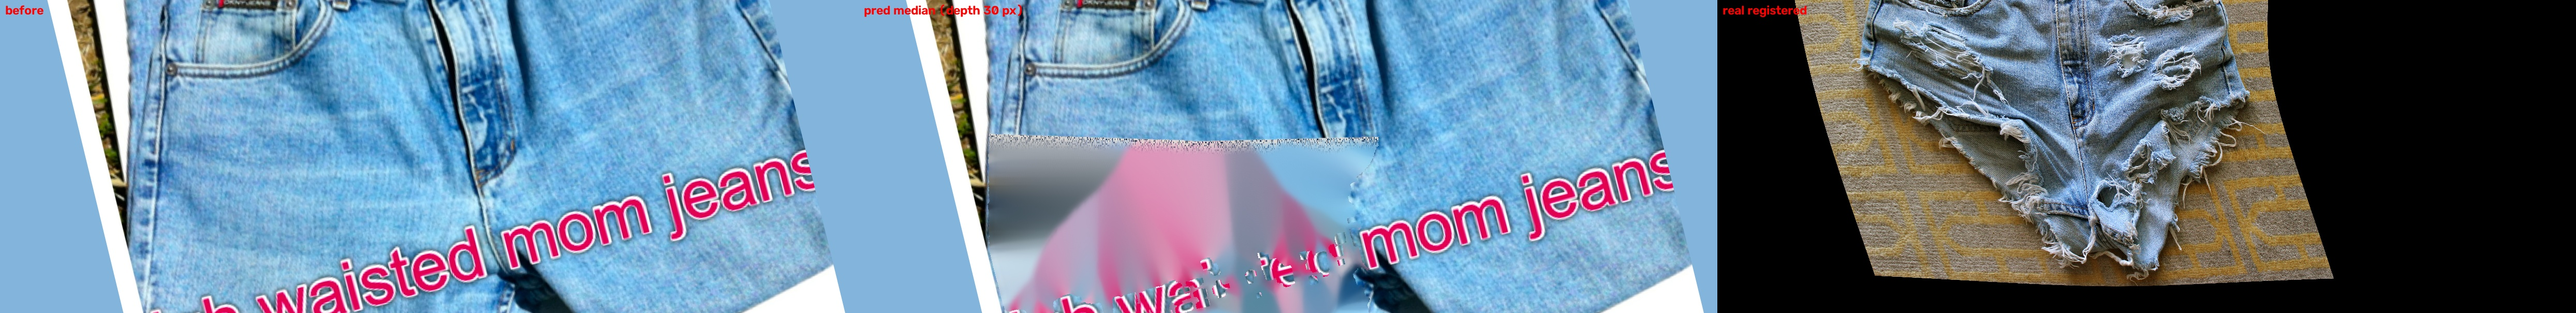
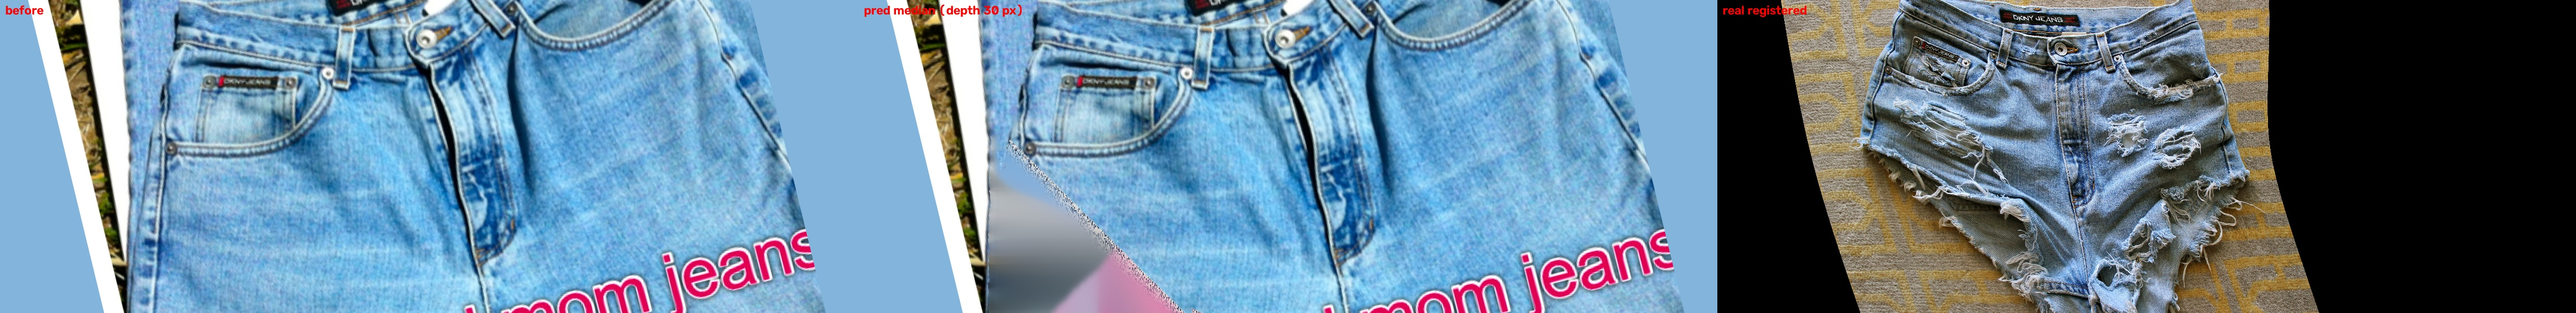
EXP_0012 phone-resolution readiness; experiment_gate5.py (one-command Gate 5 evidence)

diff --git a/tools/experiment_gate5.py b/tools/experiment_gate5.py
@@ -1,0 +1,28 @@
+#!/usr/bin/env python3
+"""One-command Gate 5 evidence (plan §7 Phase 5): 'the procedural model predicts average fray depth better than a
+single global average' — evaluated leave-one-out on the after-wash pairs, plus calibration coverage and the bench.
+Run when >= 10 after-wash pairs exist; before that it prints INSUFFICIENT and the current numbers."""
+import json, os, subprocess, sys, glob, statistics as st
+from pathlib import Path
+ROOT = Path(__file__).resolve().parents[1]; env = dict(os.environ, PAIRS_OUT="experiments/pairs_prior", PAIRS_USE_PRIOR="1")
+subprocess.run([sys.executable, str(ROOT / "tools/run_pairs_batch.py")], env=env, capture_output=True, text=True)
+rows = []
+for n in glob.glob(str(ROOT / "experiments/pairs_prior/*/NOTE.md")):
+    t = Path(n).read_text()
+    if "rejected" in t[:80] or "after_wash" not in t: continue
+    import re; m = re.search(r"fringe depth used: ([\d.]+) px from prior\[after_wash\].*?measured on after-photo: ([\d.]+) px", t)
+    if m: rows.append((Path(n).parent.name, float(m.group(1)), float(m.group(2))))
+n = len(rows); print(f"after-wash pairs with LOO prediction: {n}")
+if n:
+    pred_err = st.mean(abs(p - r) for _, p, r in rows); gmean = st.mean(r for _, _, r in rows)
+    glob_err = st.mean(abs(gmean - r) for _, _, r in rows)          # 'single global average' baseline (in-sample, generous to the baseline)
+    print(f"mean |error|: prior (LOO) {pred_err:.1f} px vs global-average {glob_err:.1f} px")
+    for pid, p, r in rows: print(f"  {pid}: predicted {p:.1f}, measured {r:.1f}")
+ints = ROOT / "experiments/pairs_prior/intervals_all.jsonl"
+with open(ints, "w") as f:
+    for p in glob.glob(str(ROOT / "experiments/pairs_prior/*/intervals.jsonl")): f.write(open(p).read())
+subprocess.run([sys.executable, str(ROOT / "tools/calibration_audit.py"), str(ints)])
+b = subprocess.run([sys.executable, str(ROOT / "tools/bench.py")], capture_output=True, text=True); print("bench:", "OK" if b.returncode == 0 else "REGRESSIONS")
+verdict = "INSUFFICIENT (need >= 10 after-wash pairs)" if n < 10 else ("PASS" if pred_err < glob_err else "FAIL")
+print(f"GATE 5 verdict: {verdict}")
+(ROOT / "docs/GATE5_LAST.md").write_text(f"# Gate 5 last run\n\nafter-wash pairs: {n}\nverdict: {verdict}\n")

diff --git a/experiments/pairs_prior/SUMMARY.md b/experiments/pairs_prior/SUMMARY.md
@@ -2,7 +2,7 @@
 
 | page | title | after | status | sil IoU pred / crop / no-op | chamfer px pred / crop | edge ΔE pred / crop | fringe IoU pred / no-op |
 |---|---|---|---|---|---|---|---|
-| b630a78c19 | How To Make Jeans Into Shorts The Easy W | after_cut | ok | 0.46 / 0.46 / 0.54 | 261 / 261 | 17.4 / 17.4 | 0.00 / 0.58 |
+| b630a78c19 | How To Make Jeans Into Shorts The Easy W | after_cut | ok | 0.49 / 0.49 / 0.54 | 319 / 320 | 18.8 / 19.1 | 0.00 / 0.55 |
 | 660bef67bf | Cómo hacer shorts con jeans viejos | after_cut | FAIL: REJECT: degenerate cut: removed fraction 0.00 | | | | |
 | 85d48013a2 | Tutorial: Aus Lang mach Kurz – Jeanshose | after_cut | FAIL: REJECT: after: garment touches the frame edge (cropped photo | | | | |
 | 3560e543f6 | How to Cut Jeans into Shorts – DIY Denim | after_cut | FAIL: REJECT: after: garment touches the frame bottom (cropped pho | | | | |
@@ -12,13 +12,13 @@
 | 963fcdd264 | DIY; Mom Jeans to High Waisted Shorts |  | after_cut | FAIL: REJECT: before: widest top row is not a single waistband run | | | | |
 | d52a3ff876 | Under Peach Trees: D.I.Y. Jeans to Short | after_cut | FAIL: REJECT: before: widest top row is not a single waistband run | | | | |
 | 443d1d4658 | Create Kids Couture: Upcycle Old Jeans i | after_cut | ok | 0.92 / 0.92 / 0.59 | 9 / 9 | 18.2 / 18.3 | 0.01 / 0.00 |
-| 3082dfddc1 | DIY style: perfectly distressed jean sho | after_wash | FAIL: REJECT: degenerate cut: removed fraction 0.88 | | | | |
+| 3082dfddc1 | DIY style: perfectly distressed jean sho | after_wash | FAIL: REJECT: degenerate cut: removed fraction 0.87 | | | | |
 | 22a5857a0c | Comment transformer son jeans en short - | after_cut | FAIL: REJECT: after: garment touches the frame edge (cropped photo | | | | |
-| f9c0e56308 | 7 Easy Steps to: DIY Denim Shorts - 51li | after_wash | FAIL: REJECT: degenerate cut: removed fraction 0.76 | | | | |
-| 2691c1a8d0 | Jeans Upcycling: Shorts aus alter Jeans  | after_cut | ok | 0.69 / 0.69 / 0.58 | 25 / 25 | 14.9 / 15.1 | 0.01 / 0.10 |
+| f9c0e56308 | 7 Easy Steps to: DIY Denim Shorts - 51li | after_wash | ok | 0.91 / 0.92 / 0.44 | 44 / 35 | 20.7 / 17.7 | 0.11 / 0.00 |
+| 2691c1a8d0 | Jeans Upcycling: Shorts aus alter Jeans  | after_cut | ok | 0.61 / 0.61 / 0.58 | 48 / 48 | 16.8 / 17.8 | 0.01 / 0.28 |
 | 5cd6cff343 | Transformer un jean en short façon BD -  | after_cut | FAIL: REJECT: before: widest top row is not a single waistband run | | | | |
-| 26b1041d00 | Upcycle Jeans Into Shorts - Sewing Novic | after_cut | ok | 0.69 / 0.69 / 0.73 | 46 / 46 | 34.7 / 34.8 | 0.00 / 0.48 |
-| f542c57cec | DIY High Waisted Denim Shorts, Step-by-S | after_wash | ok | 0.69 / 0.68 / 0.51 | 123 / 128 | 28.2 / 26.8 | 0.06 / 0.22 |
+| 26b1041d00 | Upcycle Jeans Into Shorts - Sewing Novic | after_cut | ok | 0.89 / 0.89 / 0.73 | 3 / 3 | 24.3 / 24.3 | 0.03 / 0.02 |
+| f542c57cec | DIY High Waisted Denim Shorts, Step-by-S | after_wash | ok | 0.86 / 0.86 / 0.51 | 51 / 50 | 29.0 / 28.4 | 0.32 / 0.02 |
 | 2e2063b93f | DIY: Cutoff Shorts - The Fitnessista | after_cut | FAIL: REJECT: after: widest top row is not a single waistband run  | | | | |
 | 964dc8a1f9 | Prudence and Austere: DIY Distressed Den | after_wash | FAIL: REJECT: before: widest top row is not a single waistband run | | | | |
 | e97924ad2d | Doodlecraft: How to Upcycle Jeans into B | after_cut | ok | 0.90 / 0.90 / 0.54 | 1 / 1 | 11.2 / 11.0 | 0.23 / 0.01 |

diff --git a/experiments/pairs_prior/26b1041d00/NOTE.md b/experiments/pairs_prior/26b1041d00/NOTE.md
@@ -1,18 +1,18 @@
 # PAIR — auto pipeline
 
-flags: before garment is short (bermuda/shorts): a short->shorter cut, not jeans->shorts
+flags: SAM fringe mask rejected: median depth 45px > 15% of garment height 274px; before garment is short (bermuda/shorts): a short->shorter cut, not jeans->shorts
 before: /Users/jefferyhuang/denim-twin/data/external/pair_images/26b1041d00_before_62dc9a85.jpg 
 after: /Users/jefferyhuang/denim-twin/data/external/pair_images/26b1041d00_after_cut_38ff38d5.jpg 
 scale: UNKNOWN (1.0 placeholder; mm values are px)
 landmarks: auto / auto (crotch: gap / gap)
-fringe depth used: 0.5 px from prior[after_cut] (n=4 after excluding self, INSUFFICIENT); measured on after-photo: 45.0 px (fabric/fringe split: SAM; after-frame)
-hem fit: left: angle -5.4°, depth 64 px, right: angle -0.7°, depth 26 px
+fringe depth used: 0.5 px from prior[after_cut] (n=4 after excluding self, INSUFFICIENT); measured on after-photo: 0.0 px (fabric/fringe split: colour split; registered-frame)
+hem fit: left: angle 9.1°, depth 0 px, right: angle -9.5°, depth 0 px
 registration residual (leave-one-landmark-out): 14.59px
 
 | system | sil IoU | chamfer | edge ΔE | fringe IoU |
 |---|---|---|---|---|
-| pred conservative | 0.688 | 46.2 | 34.7 | 0.001 |
-| pred median | 0.688 | 46.1 | 34.7 | 0.001 |
-| pred aggressive | 0.688 | 46.0 | 34.7 | 0.003 |
-| null:no-op | 0.732 | 48.1 | 25.4 | 0.480 |
-| null:crop-only | 0.688 | 46.2 | 34.8 | 0.000 |
+| pred conservative | 0.888 | 2.8 | 24.3 | 0.025 |
+| pred median | 0.888 | 2.8 | 24.3 | 0.033 |
+| pred aggressive | 0.888 | 2.8 | 24.3 | 0.102 |
+| null:no-op | 0.732 | 51.5 | 33.0 | 0.016 |
+| null:crop-only | 0.888 | 2.8 | 24.3 | 0.000 |

diff --git a/experiments/pairs_prior/f542c57cec/NOTE.md b/experiments/pairs_prior/f542c57cec/NOTE.md
@@ -1,18 +1,18 @@
 # PAIR — auto pipeline
 
-flags: before: rotated -13.7° to upright
+flags: before: rotated -13.7° to upright; SAM fringe mask rejected: median depth 793px > 15% of garment height 3231px
 before: /Users/jefferyhuang/denim-twin/experiments/pairs_prior/f542c57cec/cropped_before.png 
 after: /Users/jefferyhuang/denim-twin/data/external/pair_images/f542c57cec_after_wash_9c55600a.jpg 
 scale: UNKNOWN (1.0 placeholder; mm values are px)
 landmarks: auto / auto (crotch: gap / gap)
-fringe depth used: 30.2 px from prior[after_wash] (n=3 after excluding self, INSUFFICIENT); measured on after-photo: 163.6 px (fabric/fringe split: SAM; after-frame)
-hem fit: left: angle 1.9°, depth 4 px, right: angle -1.4°, depth 220 px
+fringe depth used: 30.2 px from prior[after_wash] (n=3 after excluding self, INSUFFICIENT); measured on after-photo: 7.5 px (fabric/fringe split: colour split; registered-frame)
+hem fit: left: angle 44.8°, depth 2 px, right: angle 24.0°, depth 13 px
 registration residual (leave-one-landmark-out): 61.19px
 
 | system | sil IoU | chamfer | edge ΔE | fringe IoU |
 |---|---|---|---|---|
-| pred conservative | 0.680 | 125.8 | 28.1 | 0.023 |
-| pred median | 0.686 | 123.3 | 28.2 | 0.057 |
-| pred aggressive | 0.690 | 121.3 | 28.4 | 0.082 |
-| null:no-op | 0.514 | 460.8 | 27.8 | 0.224 |
-| null:crop-only | 0.676 | 127.9 | 26.8 | 0.000 |
+| pred conservative | 0.859 | 49.5 | 28.8 | 0.222 |
+| pred median | 0.857 | 51.5 | 29.0 | 0.316 |
+| pred aggressive | 0.854 | 55.0 | 29.1 | 0.312 |
+| null:no-op | 0.514 | 460.8 | 29.8 | 0.022 |
+| null:crop-only | 0.858 | 50.2 | 28.4 | 0.000 |

diff --git a/experiments/pairs_prior/b630a78c19/NOTE.md b/experiments/pairs_prior/b630a78c19/NOTE.md
@@ -1,18 +1,18 @@
 # PAIR — auto pipeline
 
-flags: after: rotated -10.7° to upright
+flags: after: rotated -10.7° to upright; SAM fringe mask rejected: median depth 254px > 15% of garment height 1190px
 before: /Users/jefferyhuang/denim-twin/data/external/pair_images/b630a78c19_before_54931395.jpg 
 after: /Users/jefferyhuang/denim-twin/data/external/pair_images/b630a78c19_after_cut_c7a4d702.jpg 
 scale: UNKNOWN (1.0 placeholder; mm values are px)
 landmarks: auto / auto (crotch: gap / gap)
-fringe depth used: 0.6 px from prior[after_cut] (n=5 after excluding self); measured on after-photo: 307.2 px (fabric/fringe split: SAM; after-frame)
-hem fit: left: angle -0.7°, depth 6 px, right: angle -20.2°, depth 56 px
+fringe depth used: 0.6 px from prior[after_cut] (n=5 after excluding self); measured on after-photo: 4.5 px (fabric/fringe split: colour split; registered-frame)
+hem fit: left: angle 72.1°, depth 4 px, right: angle 0.1°, depth 5 px
 registration residual (leave-one-landmark-out): 41.30px
 
 | system | sil IoU | chamfer | edge ΔE | fringe IoU |
 |---|---|---|---|---|
-| pred conservative | 0.459 | 260.9 | 17.4 | 0.001 |
-| pred median | 0.459 | 260.8 | 17.4 | 0.001 |
-| pred aggressive | 0.459 | 260.7 | 17.4 | 0.002 |
-| null:no-op | 0.536 | 161.9 | 16.4 | 0.582 |
-| null:crop-only | 0.459 | 260.9 | 17.4 | 0.000 |
+| pred conservative | 0.489 | 319.0 | 18.8 | 0.003 |
+| pred median | 0.490 | 318.6 | 18.8 | 0.004 |
+| pred aggressive | 0.490 | 316.9 | 18.8 | 0.008 |
+| null:no-op | 0.536 | 257.3 | 14.3 | 0.549 |
+| null:crop-only | 0.489 | 320.5 | 19.1 | 0.000 |

diff --git a/experiments/pairs_prior/2691c1a8d0/NOTE.md b/experiments/pairs_prior/2691c1a8d0/NOTE.md
@@ -1,18 +1,18 @@
 # PAIR — auto pipeline
 
-flags: none
+flags: SAM fringe mask rejected: median depth 116px > 15% of garment height 386px
 before: /Users/jefferyhuang/denim-twin/data/external/pair_images/2691c1a8d0_before_b9f7f64b.jpg 
 after: /Users/jefferyhuang/denim-twin/data/external/pair_images/2691c1a8d0_after_cut_b2330819.jpg 
 scale: UNKNOWN (1.0 placeholder; mm values are px)
 landmarks: auto / auto (crotch: gap / gap)
-fringe depth used: 0.4 px from prior[after_cut] (n=5 after excluding self); measured on after-photo: 120.2 px (fabric/fringe split: SAM; after-frame)
-hem fit: left: angle -36.4°, depth 2 px, right: angle -48.2°, depth 62 px
+fringe depth used: 0.4 px from prior[after_cut] (n=5 after excluding self); measured on after-photo: 2.8 px (fabric/fringe split: colour split; registered-frame)
+hem fit: left: angle -68.9°, depth 4 px, right: angle -48.9°, depth 2 px
 registration residual (leave-one-landmark-out): 86.85px
 
 | system | sil IoU | chamfer | edge ΔE | fringe IoU |
 |---|---|---|---|---|
-| pred conservative | 0.694 | 25.0 | 14.9 | 0.004 |
-| pred median | 0.694 | 25.0 | 14.9 | 0.005 |
-| pred aggressive | 0.695 | 24.9 | 14.9 | 0.012 |
-| null:no-op | 0.579 | 109.7 | 17.5 | 0.101 |
-| null:crop-only | 0.694 | 25.1 | 15.1 | 0.000 |
+| pred conservative | 0.615 | 47.6 | 16.8 | 0.009 |
+| pred median | 0.615 | 47.5 | 16.8 | 0.013 |
+| pred aggressive | 0.617 | 46.9 | 16.8 | 0.035 |
+| null:no-op | 0.579 | 103.2 | 18.9 | 0.281 |
+| null:crop-only | 0.614 | 47.9 | 17.8 | 0.000 |

diff --git a/experiments/pairs_prior/f9c0e56308/NOTE.md b/experiments/pairs_prior/f9c0e56308/NOTE.md
@@ -1,3 +1,18 @@
-# PAIR — rejected
+# PAIR — auto pipeline
 
-degenerate cut: removed fraction 0.76
+flags: after: touches the edge of a MANUAL crop (second object removed from frame); SAM fringe mask rejected: median depth 260px > 15% of garment height 811px
+before: /Users/jefferyhuang/denim-twin/data/external/pair_images/f9c0e56308_before_5de12702.jpg 
+after: /Users/jefferyhuang/denim-twin/experiments/pairs_prior/f9c0e56308/cropped_after_wash.png 
+scale: UNKNOWN (1.0 placeholder; mm values are px)
+landmarks: auto / auto (crotch: gap / gap)
+fringe depth used: 37.5 px from prior[after_wash] (n=3 after excluding self, INSUFFICIENT); measured on after-photo: 0.0 px (fabric/fringe split: colour split; registered-frame)
+hem fit: left: angle 3.0°, depth 0 px, right: angle -11.1°, depth 0 px
+registration residual (leave-one-landmark-out): 139.78px
+
+| system | sil IoU | chamfer | edge ΔE | fringe IoU |
+|---|---|---|---|---|
+| pred conservative | 0.915 | 37.7 | 18.9 | 0.144 |
+| pred median | 0.909 | 44.1 | 20.7 | 0.107 |
+| pred aggressive | 0.902 | 50.4 | 21.9 | 0.080 |
+| null:no-op | 0.436 | 732.4 | 15.2 | 0.002 |
+| null:crop-only | 0.919 | 34.7 | 17.7 | 0.000 |

diff --git a/experiments/EXP_0012_phone_resolution/NOTE.md b/experiments/EXP_0012_phone_resolution/NOTE.md
@@ -1,0 +1,16 @@
+# EXP_0012 — Does the pipeline hold at contributor phone resolution? (synthetic, 3000×4500)
+
+**Setup:** the synthetic textured jeans pair (cut at 35% inseam, after re-laid by 6° + 2% scale + shift), upscaled 5× to
+3000×4500 (phone-class), run through `run_pair.py --state after_cut` with no manual input.
+
+| resolution | sil IoU | hem error | time |
+|---|---|---|---|
+| 600×900 (native) | 0.961 | 0.9 px | 8.6 s |
+| 3000×4500, before fix | 0.751 | 388 px | 38 s |
+| 3000×4500, after fix | **0.967** | **2.8 px** | 38 s |
+
+**Failure found and fixed:** at high resolution SAM's hem-band prompt returned a huge "fringe" (701 px deep) on a garment
+with no fringe; the fabric edge then came from the fringe mask and the cut was wrong. Gate added: a fringe mask whose
+median column depth exceeds 15% of garment height is rejected (a fringe is a thin band) with fallback to the mask edge.
+Real pairs unchanged; bench 0 regressions. 38 s/pair is acceptable for the daily loop. Caveat: synthetic re-lay is affine;
+real contributor photos add drape and perspective.

diff --git a/experiments/pairs_prior/3082dfddc1/NOTE.md b/experiments/pairs_prior/3082dfddc1/NOTE.md
@@ -1,3 +1,3 @@
 # PAIR — rejected
 
-degenerate cut: removed fraction 0.88
+degenerate cut: removed fraction 0.87

diff --git a/docs/GATE5_LAST.md b/docs/GATE5_LAST.md
@@ -1,0 +1,4 @@
+# Gate 5 last run
+
+after-wash pairs: 3
+verdict: INSUFFICIENT (need >= 10 after-wash pairs)
